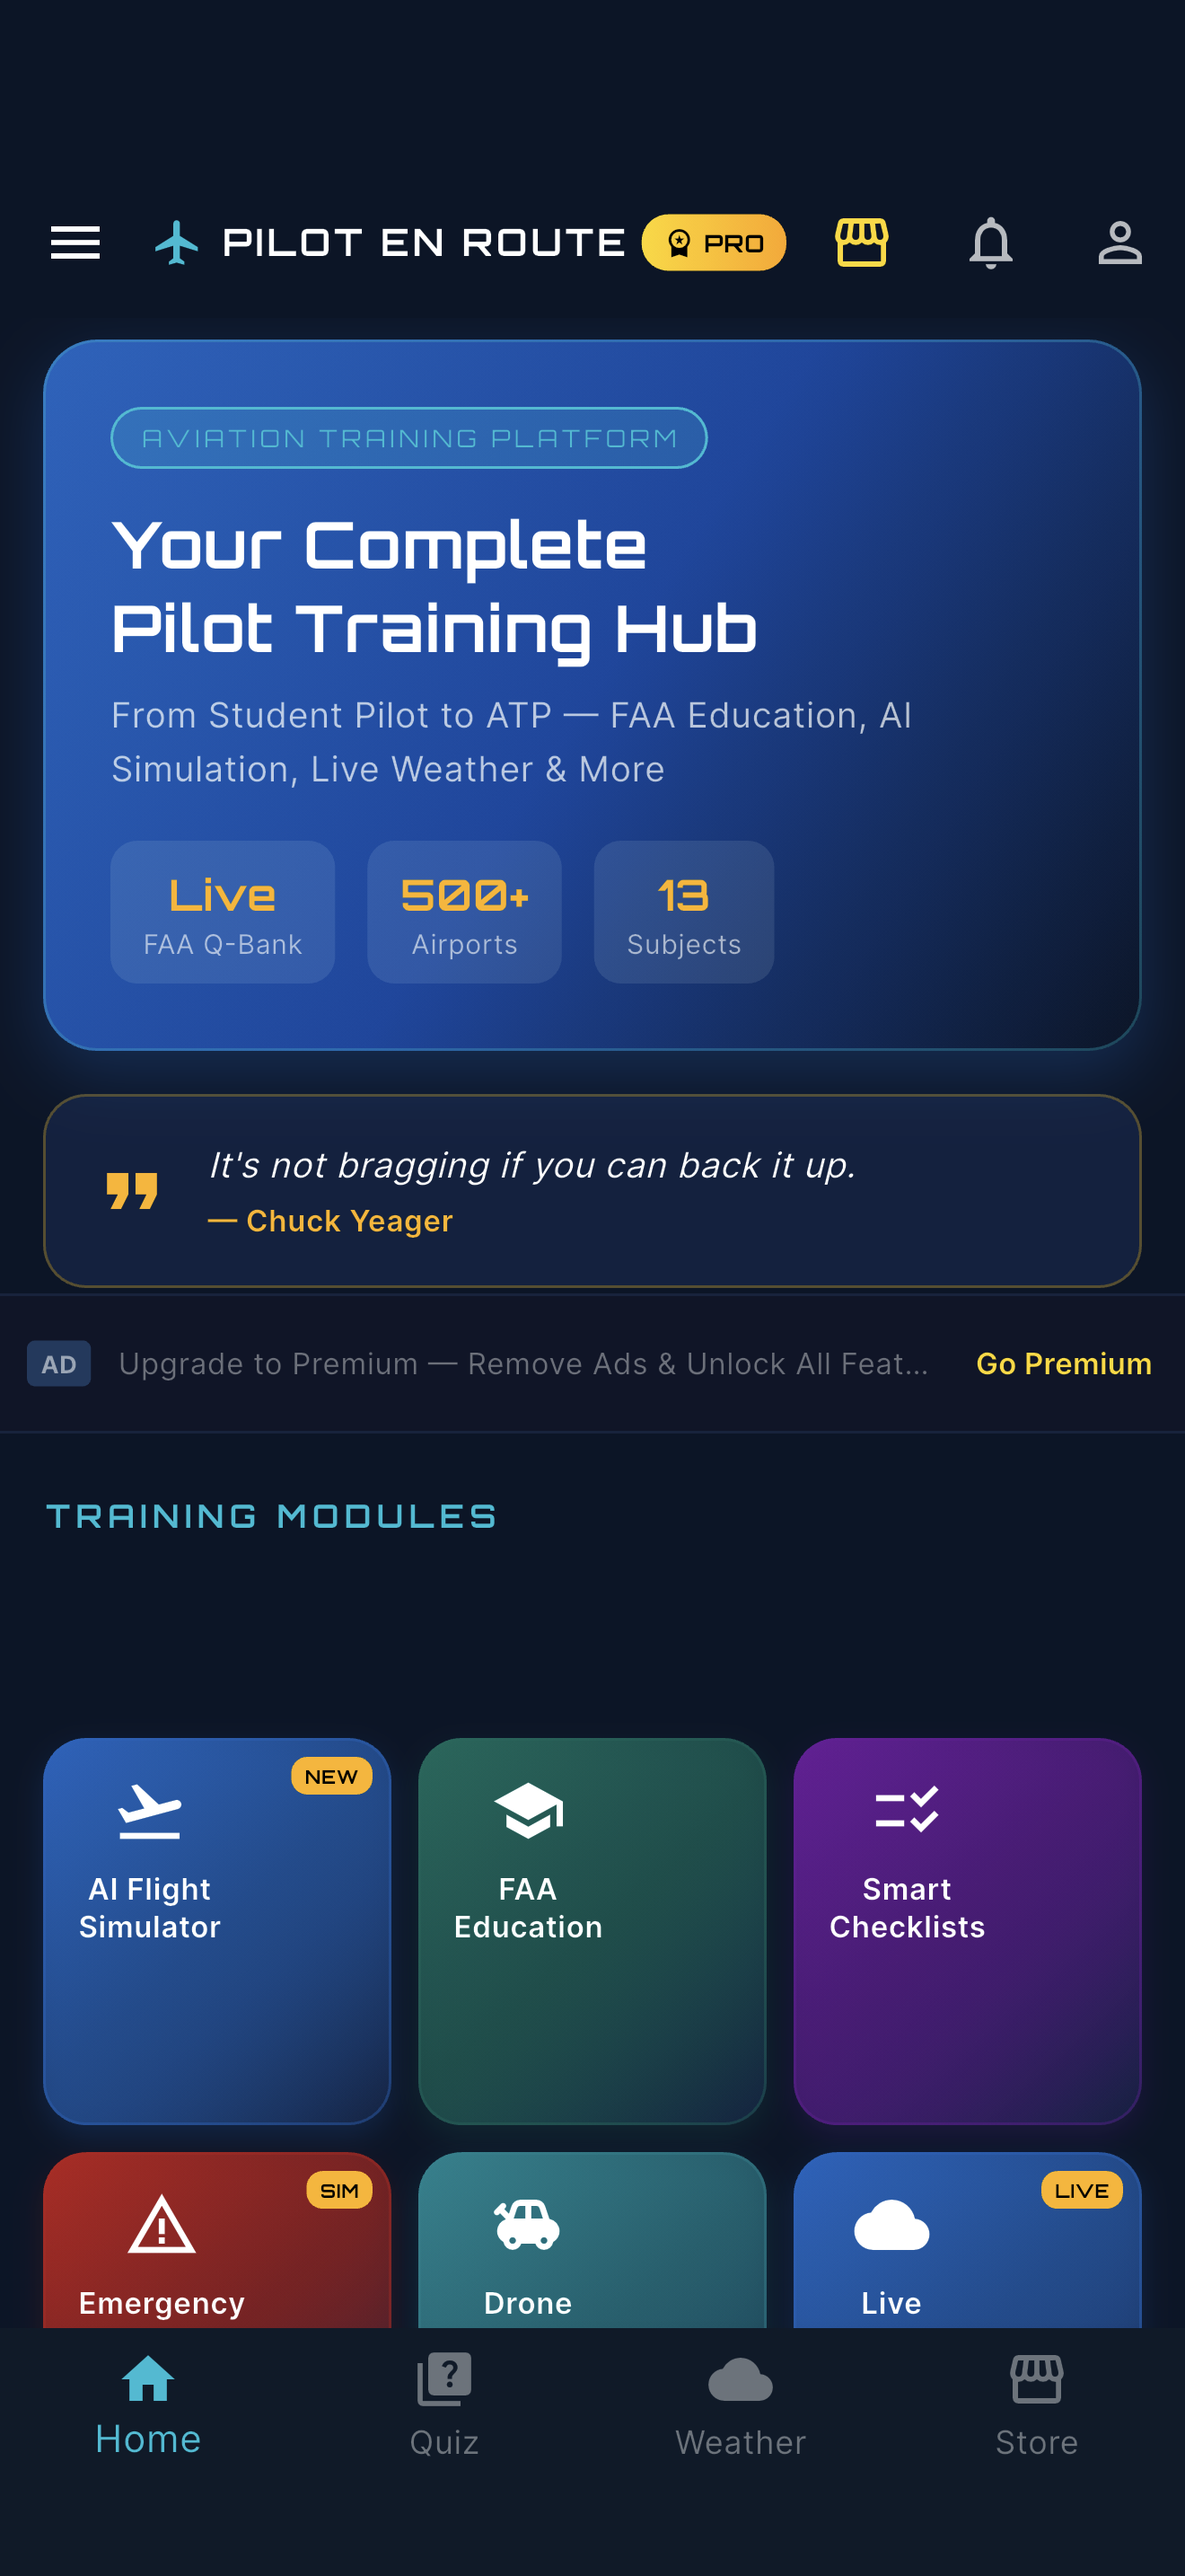
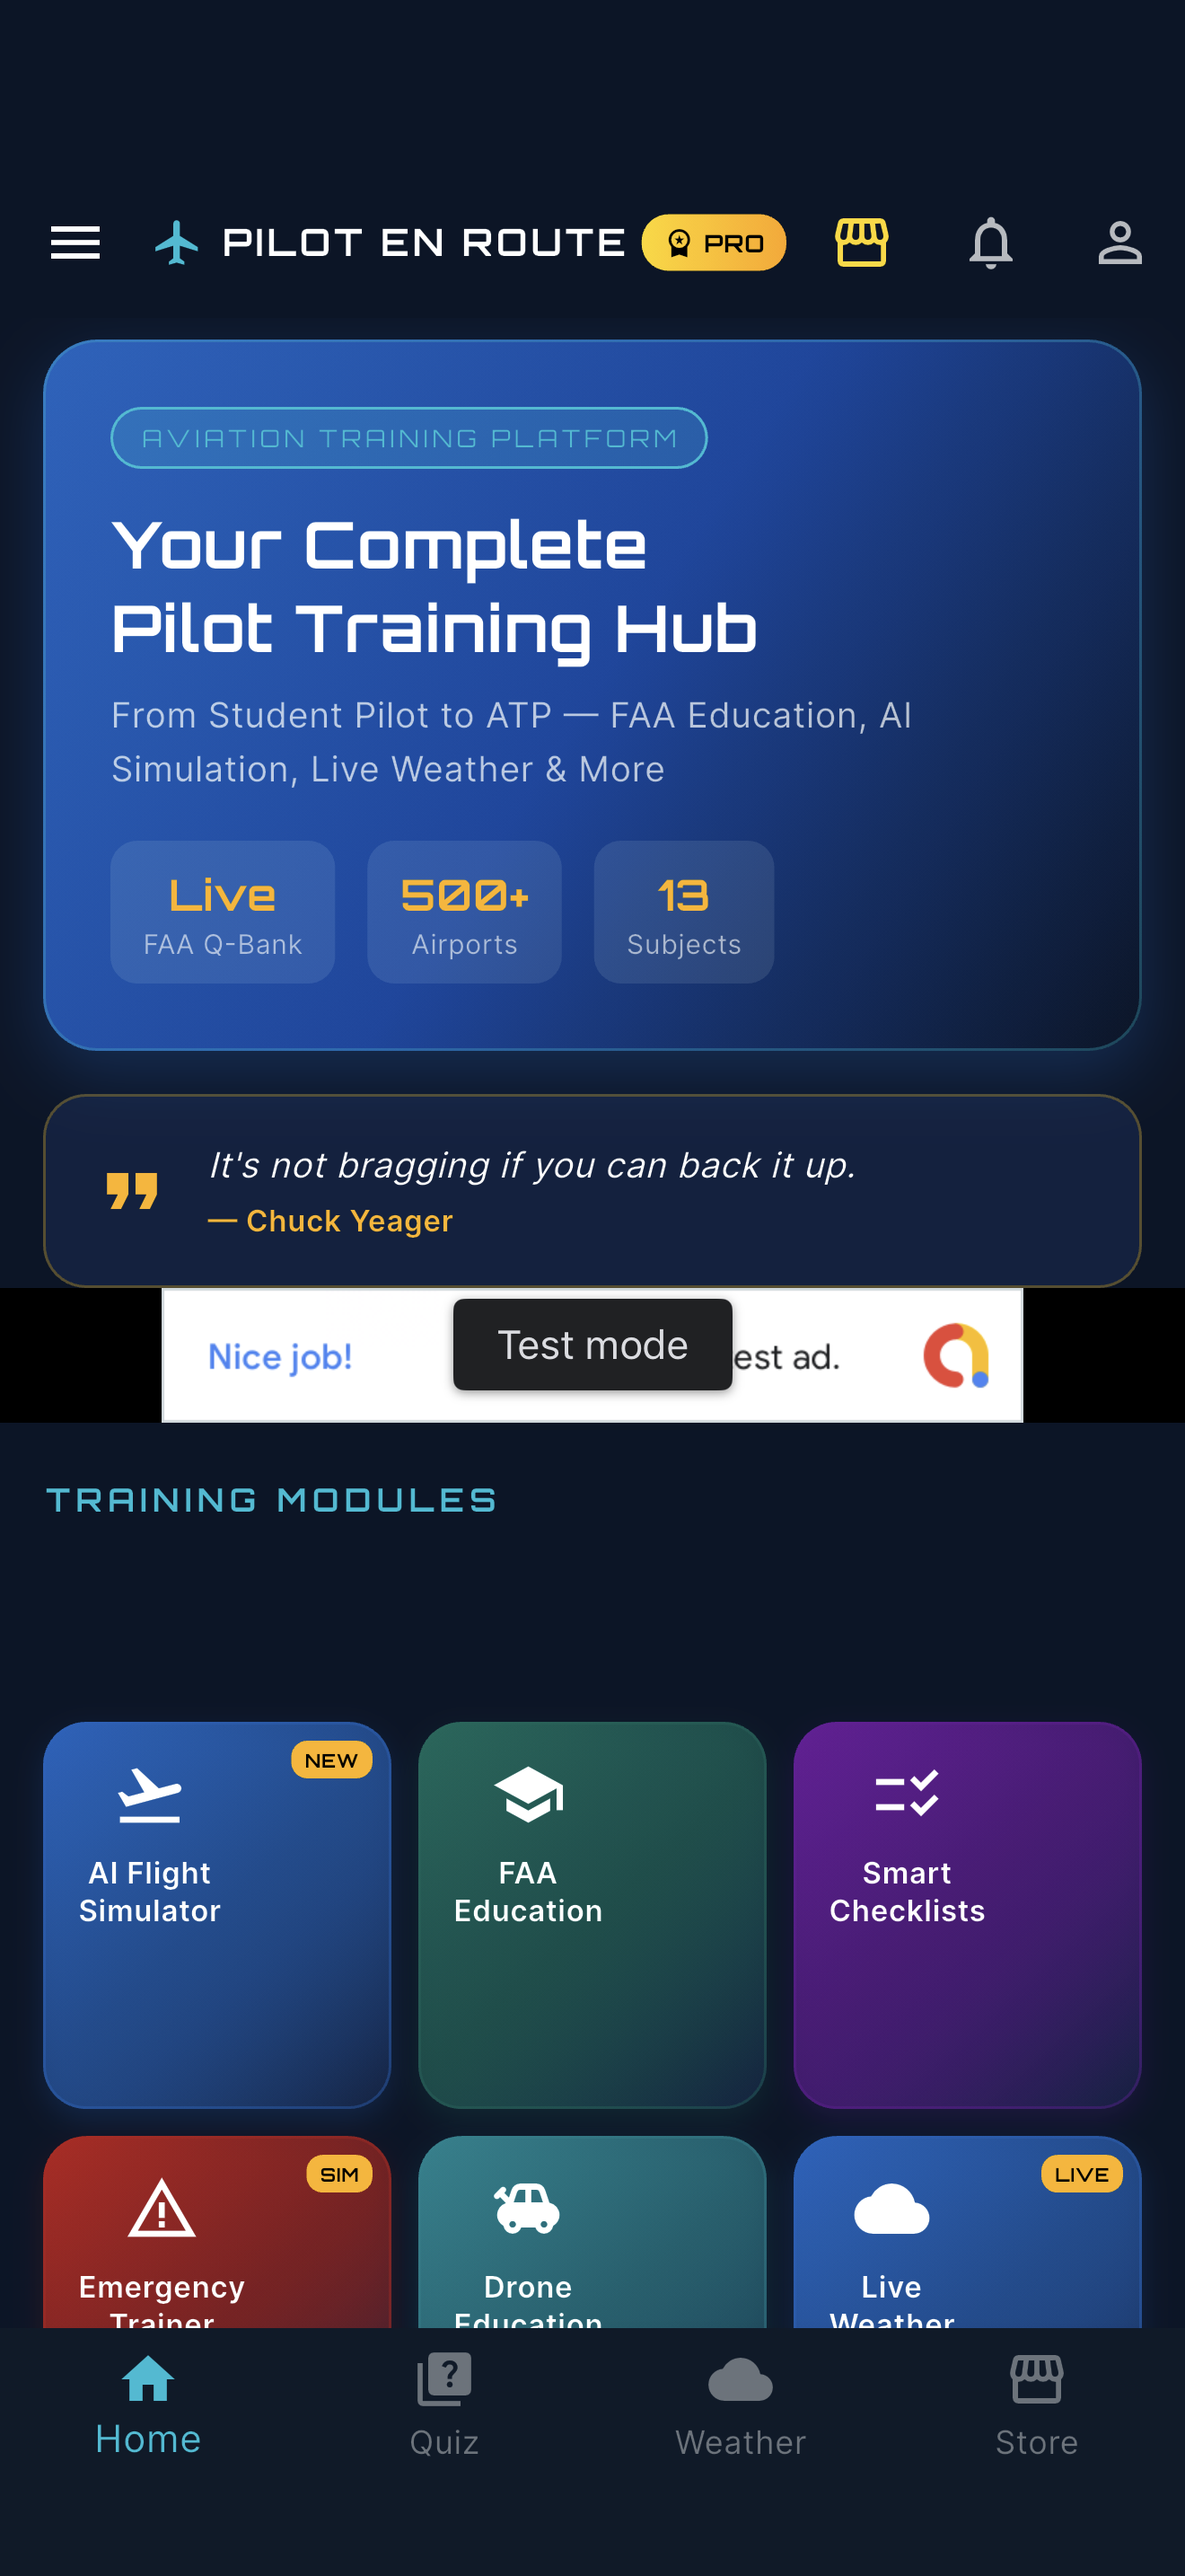
All 43 apps now have real store screenshots
120+ frames at 1320x2868, every one driven through the app's own navigation, so
a screenshot exists only where a screen genuinely rendered.

Getting the last six took three separate fixes, each a real cause rather than a
retry: pumpAndSettle never returning on apps with endless animations; the
simulator returning single-colour frames after the first app of a sweep, so it
is now erased between apps; and an erased simulator reporting ATT
'notDetermined', which put Google's UMP consent dialog over every frame until
the TCC database was seeded.

Blank detection is now in the harness itself - any PNG that is >=99% one colour
is deleted rather than counted. An earlier run reported 40 of 43 captured when
36 of its 121 files were blank.

Failing checks: 29 -> 15. Apps with zero failing checks: 30 of 43.

diff --git a/docs/STORE_CHECKLIST.md b/docs/STORE_CHECKLIST.md
@@ -15,14 +15,14 @@ console login, a questionnaire, or a credential that does not exist yet.
 | AGRecorder | 21 | 0 | 3 |
 | AGStudio | 21 | 0 | 3 |
 | ApexMarketWatch | 21 | 0 | 3 |
-| BodyQuest | 22 | 1 | 3 |
+| BodyQuest | 23 | 0 | 3 |
 | BuddyPlay | 21 | 0 | 3 |
-| CalcMaster | 22 | 1 | 3 |
+| CalcMaster | 23 | 0 | 3 |
 | CarDeal | 21 | 0 | 3 |
-| ChefCount | 19 | 2 | 3 |
+| ChefCount | 22 | 0 | 3 |
 | CodeDeal | 21 | 0 | 3 |
 | daily-pulse | 22 | 1 | 3 |
-| DriftDate | 22 | 1 | 3 |
+| DriftDate | 23 | 0 | 3 |
 | EventSpark | 21 | 0 | 3 |
 | FashionFactory | 22 | 0 | 3 |
 | GadgetNest | 20 | 1 | 3 |
@@ -32,15 +32,15 @@ console login, a questionnaire, or a credential that does not exist yet.
 | iMaps | 23 | 0 | 3 |
 | iMeasure | 22 | 1 | 3 |
 | Kinnav | 23 | 0 | 3 |
-| MileMaster | 19 | 2 | 3 |
+| MileMaster | 22 | 0 | 3 |
 | MyCard | 21 | 0 | 3 |
-| MyFinance | 19 | 2 | 3 |
+| MyFinance | 22 | 0 | 3 |
 | MyHealth | 22 | 1 | 3 |
 | NearServe | 21 | 0 | 3 |
 | NewsBoard | 20 | 1 | 3 |
 | NexusTransferPay | 18 | 3 | 3 |
-| Photriya | 22 | 1 | 3 |
-| PilotEnRoute | 22 | 1 | 3 |
+| Photriya | 23 | 0 | 3 |
+| PilotEnRoute | 23 | 0 | 3 |
 | PlantPulse | 20 | 1 | 3 |
 | portfolio-board | 21 | 1 | 3 |
 | radiotune | 23 | 0 | 3 |
@@ -48,12 +48,12 @@ console login, a questionnaire, or a credential that does not exist yet.
 | RoomCraft | 21 | 0 | 3 |
 | TripNest | 22 | 0 | 3 |
 | Uscis-Case | 23 | 0 | 3 |
-| Verba | 20 | 2 | 3 |
+| Verba | 21 | 1 | 3 |
 | VirtuBand | 23 | 0 | 3 |
-| WiFiTrail | 19 | 2 | 3 |
+| WiFiTrail | 22 | 0 | 3 |
 | yourtube | 22 | 0 | 3 |
 
-**29 failing checks across 43 apps.**
+**15 failing checks across 43 apps.**
 
 ## AeroSwift
 
@@ -248,7 +248,7 @@ console login, a questionnaire, or a credential that does not exist yet.
 | Release signing configured | PASS | upload keystore matched |
 | App icon (1024, opaque, not a placeholder) | PASS | 0728a46087a2 |
 | Play feature graphic 1024x500 | PASS |  |
-| Screenshots (Apple >=1, Play >=2) | FAIL | 1 captured ['1320x2868'] |
+| Screenshots (Apple >=1, Play >=2) | PASS | 5 captured ['1320x2868'] |
 | App Store name | PASS | BodyQuest: Health Game |
 | Play title | PASS | BodyQuest — Health Game |
 | Full description | PASS | 1458 chars |
@@ -309,7 +309,7 @@ console login, a questionnaire, or a credential that does not exist yet.
 | Release signing configured | PASS | upload keystore matched |
 | App icon (1024, opaque, not a placeholder) | PASS | d9d26cfca178 |
 | Play feature graphic 1024x500 | PASS |  |
-| Screenshots (Apple >=1, Play >=2) | FAIL | 0 captured  |
+| Screenshots (Apple >=1, Play >=2) | PASS | 5 captured ['1320x2868'] |
 | App Store name | PASS | CalcMaster: World Calc |
 | Play title | PASS | CalcMaster — World Calculator |
 | Full description | PASS | 3163 chars |
@@ -373,9 +373,10 @@ console login, a questionnaire, or a credential that does not exist yet.
 | Screenshots (Apple >=1, Play >=2) | PASS | 3 captured ['1320x2868'] |
 | App Store name | PASS | ChefCount |
 | Play title | PASS | ChefCount |
-| Full description | FAIL | missing |
-| Play short description (<=80) | PASS | 56 chars |
-| App Store keywords (<=100) | FAIL | missing |
+| Full description | PASS | 1500 chars |
+| Play short description (<=80) | PASS | 68 chars |
+| App Store keywords (<=100) | PASS | 80 chars |
+| Promotional text (<=170) | PASS | 128 chars |
 | Primary category | PASS | FOOD_AND_DRINK |
 | Per-app review notes | PASS |  |
 | Privacy & support URLs resolve (HTTP 200) | PASS |  |
@@ -461,7 +462,7 @@ console login, a questionnaire, or a credential that does not exist yet.
 | Release signing configured | PASS | upload keystore matched |
 | App icon (1024, opaque, not a placeholder) | PASS | ed9a84f651a6 |
 | Play feature graphic 1024x500 | PASS |  |
-| Screenshots (Apple >=1, Play >=2) | FAIL | 0 captured  |
+| Screenshots (Apple >=1, Play >=2) | PASS | 2 captured ['1320x2868'] |
 | App Store name | PASS | DriftDate: Layered Dating |
 | Play title | PASS | DriftDate — Layered Dating |
 | Full description | PASS | 1526 chars |
@@ -771,9 +772,10 @@ console login, a questionnaire, or a credential that does not exist yet.
 | Screenshots (Apple >=1, Play >=2) | PASS | 3 captured ['1320x2868'] |
 | App Store name | PASS | MileMaster |
 | Play title | PASS | MileMaster |
-| Full description | FAIL | missing |
-| Play short description (<=80) | PASS | 72 chars |
-| App Store keywords (<=100) | FAIL | missing |
+| Full description | PASS | 1896 chars |
+| Play short description (<=80) | PASS | 70 chars |
+| App Store keywords (<=100) | PASS | 77 chars |
+| Promotional text (<=170) | PASS | 149 chars |
 | Primary category | PASS | BUSINESS |
 | Per-app review notes | PASS |  |
 | Privacy & support URLs resolve (HTTP 200) | PASS |  |
@@ -831,9 +833,10 @@ console login, a questionnaire, or a credential that does not exist yet.
 | Screenshots (Apple >=1, Play >=2) | PASS | 3 captured ['1320x2868'] |
 | App Store name | PASS | MyFinance |
 | Play title | PASS | MyFinance |
-| Full description | FAIL | missing |
-| Play short description (<=80) | PASS | 28 chars |
-| App Store keywords (<=100) | FAIL | missing |
+| Full description | PASS | 1659 chars |
+| Play short description (<=80) | PASS | 78 chars |
+| App Store keywords (<=100) | PASS | 77 chars |
+| Promotional text (<=170) | PASS | 132 chars |
 | Primary category | PASS | FINANCE |
 | Per-app review notes | PASS |  |
 | Privacy & support URLs resolve (HTTP 200) | PASS |  |
@@ -979,7 +982,7 @@ console login, a questionnaire, or a credential that does not exist yet.
 | Release signing configured | PASS | upload keystore matched |
 | App icon (1024, opaque, not a placeholder) | PASS | 98174dc8767c |
 | Play feature graphic 1024x500 | PASS |  |
-| Screenshots (Apple >=1, Play >=2) | FAIL | 0 captured  |
+| Screenshots (Apple >=1, Play >=2) | PASS | 5 captured ['1320x2868'] |
 | App Store name | PASS | Photriya |
 | Play title | PASS | Photriya |
 | Full description | PASS | 1951 chars |
@@ -1010,7 +1013,7 @@ console login, a questionnaire, or a credential that does not exist yet.
 | Release signing configured | PASS | upload keystore matched |
 | App icon (1024, opaque, not a placeholder) | PASS | 3fcff1d8a365 |
 | Play feature graphic 1024x500 | PASS |  |
-| Screenshots (Apple >=1, Play >=2) | FAIL | 0 captured  |
+| Screenshots (Apple >=1, Play >=2) | PASS | 3 captured ['1320x2868'] |
 | App Store name | PASS | PilotEnRoute: Pilot Training |
 | Play title | PASS | PilotEnRoute — Pilot Training |
 | Full description | PASS | 1618 chars |
@@ -1255,7 +1258,7 @@ console login, a questionnaire, or a credential that does not exist yet.
 | Release signing configured | PASS | upload keystore matched |
 | App icon (1024, opaque, not a placeholder) | PASS | 8787cb68431f |
 | Play feature graphic 1024x500 | PASS |  |
-| Screenshots (Apple >=1, Play >=2) | FAIL | 1 captured ['1320x2868'] |
+| Screenshots (Apple >=1, Play >=2) | PASS | 5 captured ['1320x2868'] |
 | App Store name | PASS | Verba: Voice Translator |
 | Play title | PASS | Verba — Voice Translator |
 | Full description | PASS | 1472 chars |
@@ -1320,9 +1323,10 @@ console login, a questionnaire, or a credential that does not exist yet.
 | Screenshots (Apple >=1, Play >=2) | PASS | 3 captured ['1320x2868'] |
 | App Store name | PASS | WiFiTrail |
 | Play title | PASS | WiFiTrail |
-| Full description | FAIL | missing |
+| Full description | PASS | 2211 chars |
 | Play short description (<=80) | PASS | 69 chars |
-| App Store keywords (<=100) | FAIL | missing |
+| App Store keywords (<=100) | PASS | 77 chars |
+| Promotional text (<=170) | PASS | 135 chars |
 | Primary category | PASS | UTILITIES |
 | Per-app review notes | PASS |  |
 | Privacy & support URLs resolve (HTTP 200) | PASS |  |
